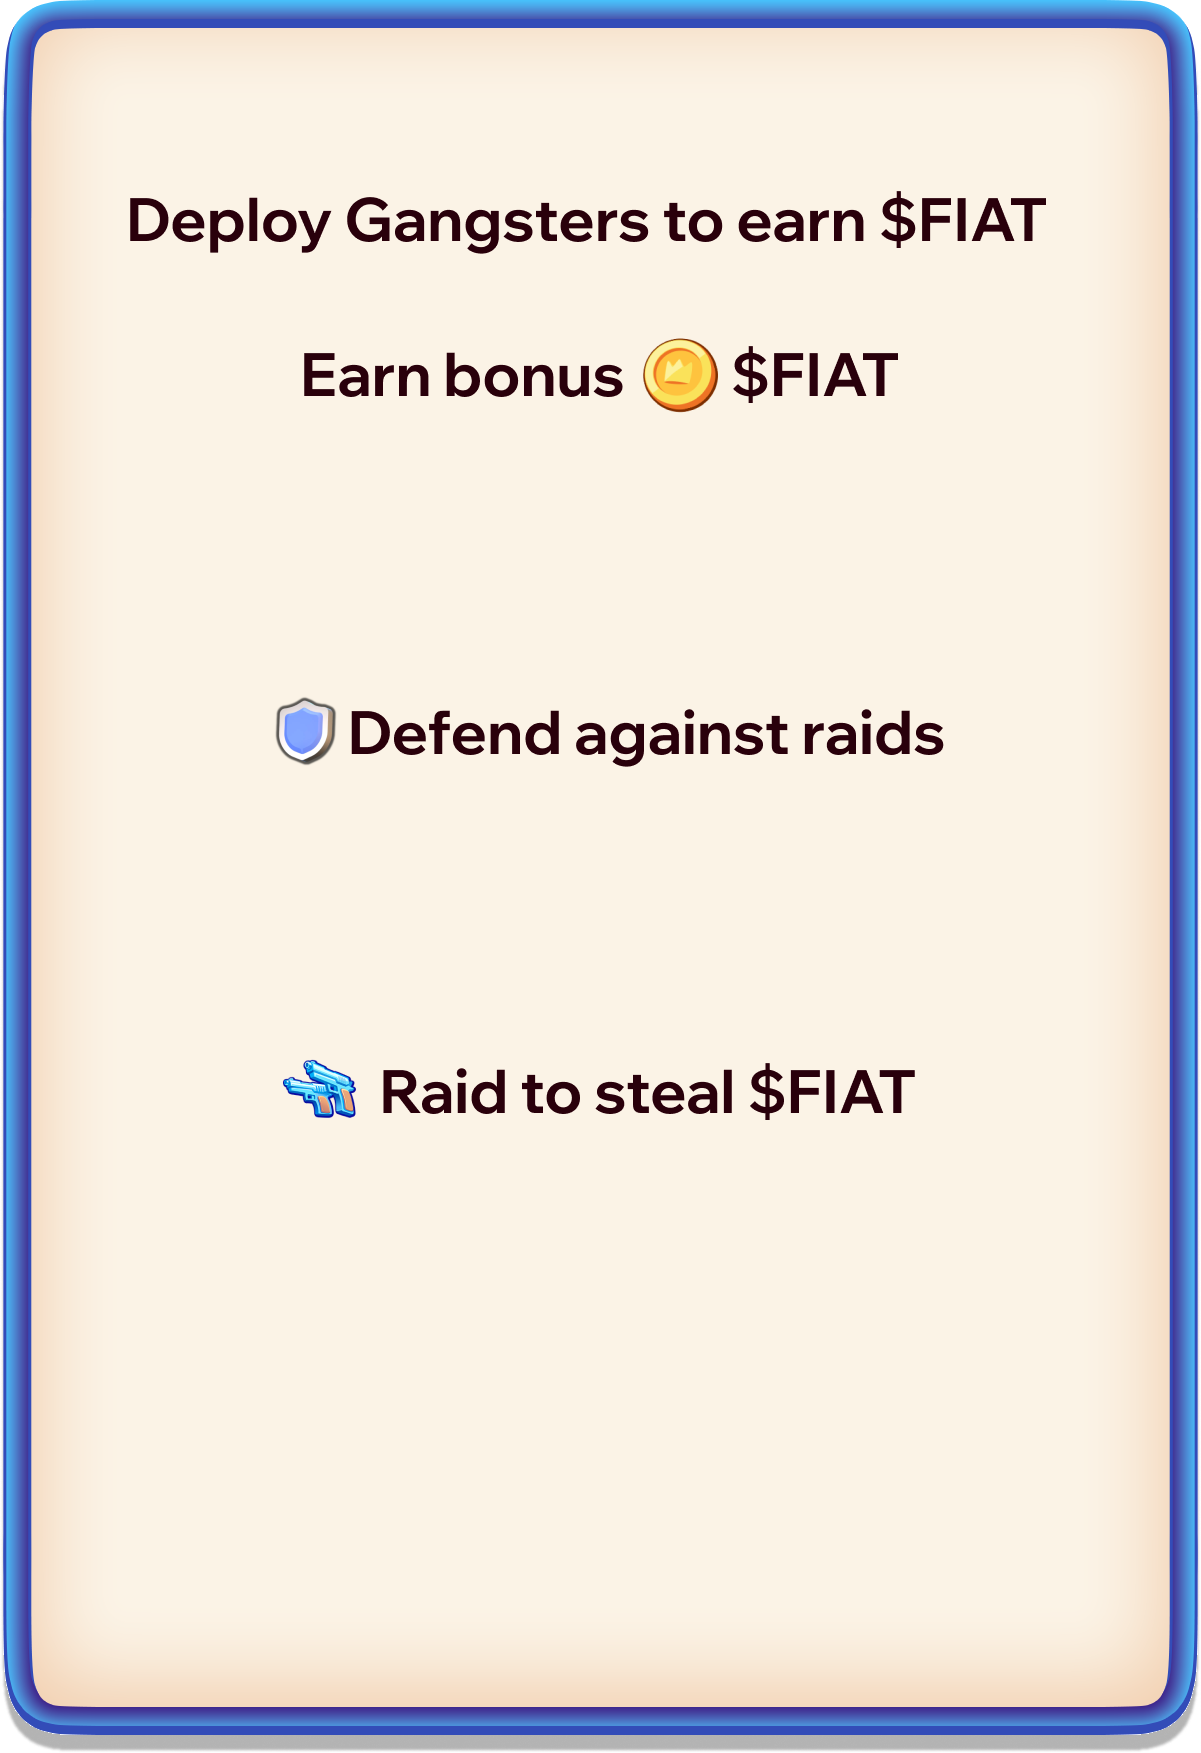
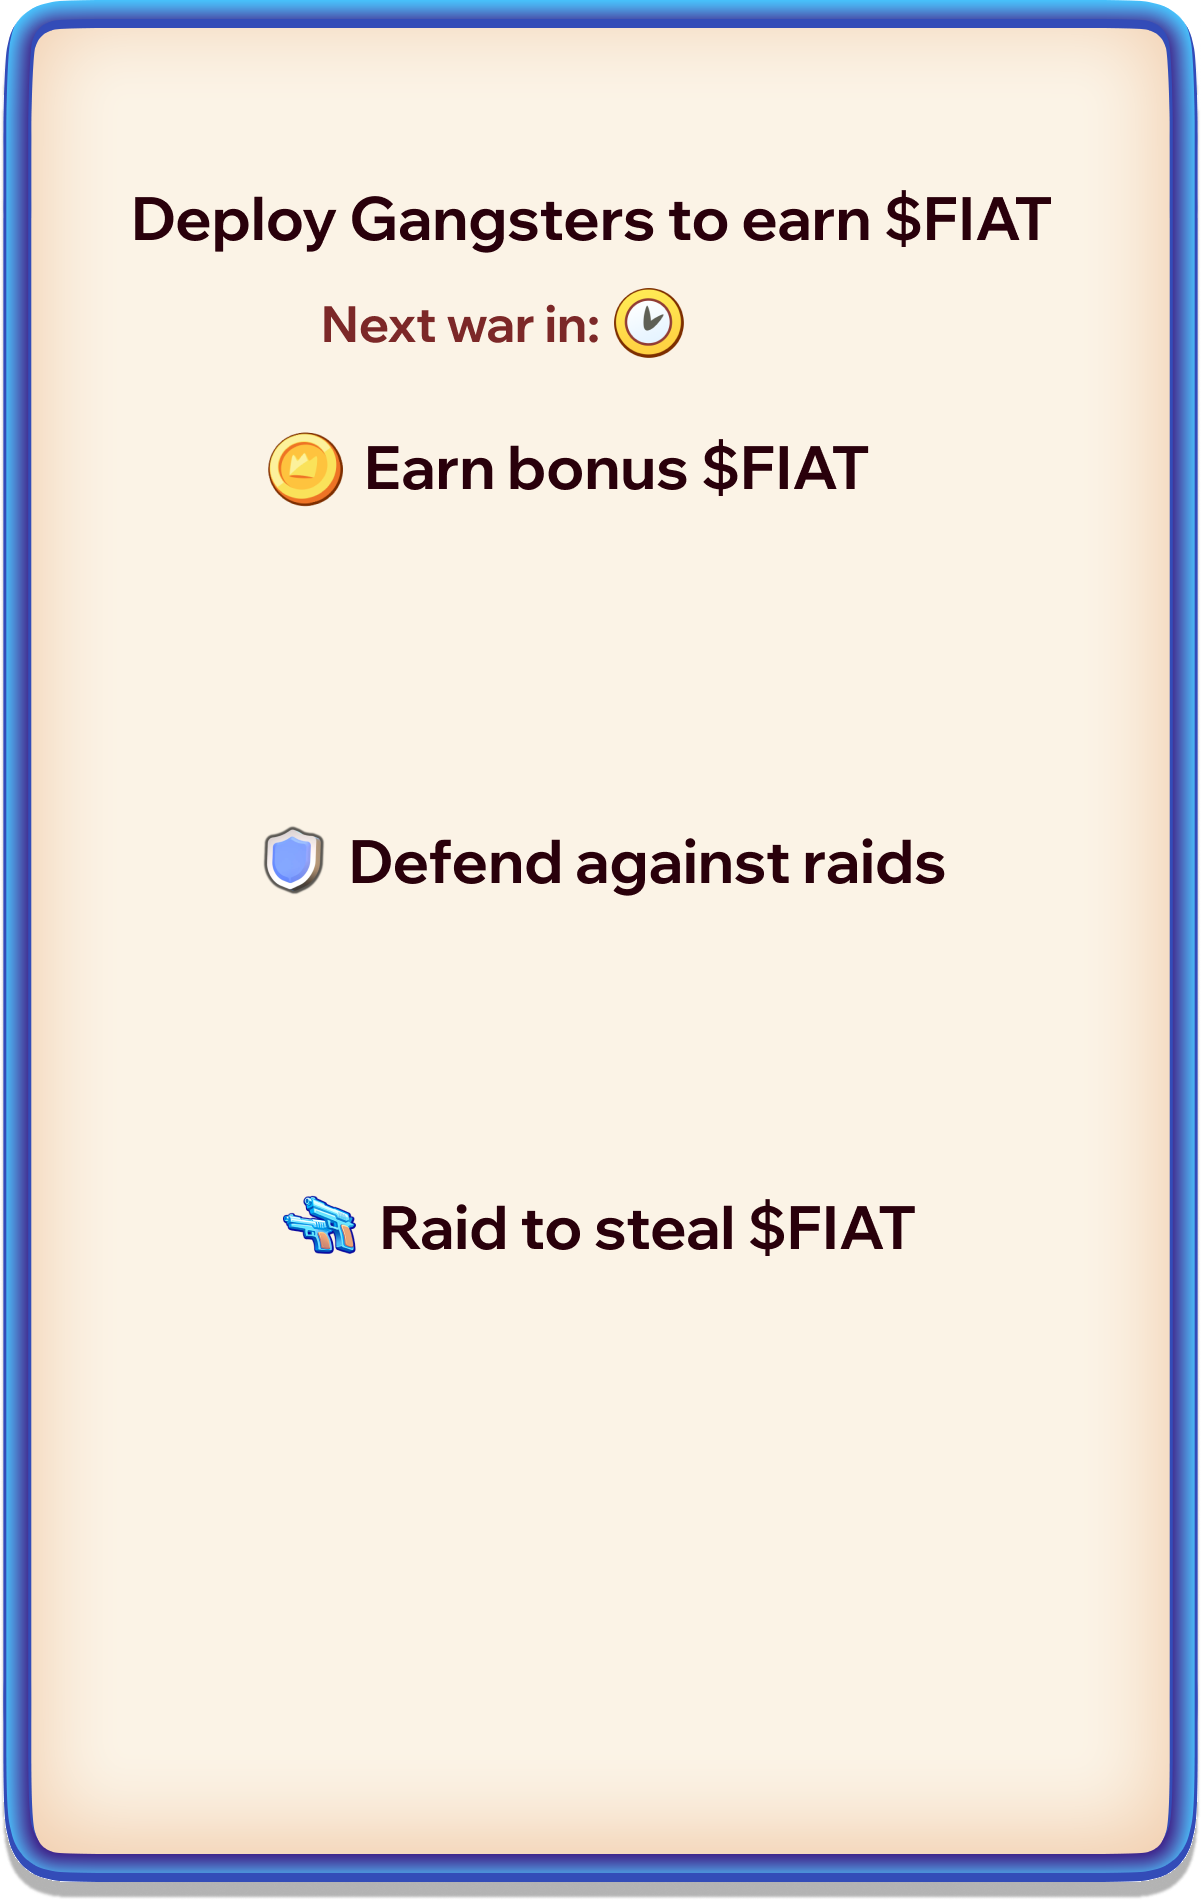
feat: update UI gangwar deployment

diff --git a/app/src/pages/Game/components/popup/PopupWarMachines.js b/app/src/pages/Game/components/popup/PopupWarMachines.js
@@ -32,6 +32,8 @@ class PopupWarMachines extends Popup {
     this.onClickClose = onClickClose;
 
     const events = {
+      requestNextWarTime: isSimulator ? 'simulator-request-next-war-time' : 'request-next-war-time',
+      updateNextWarTime: isSimulator ? 'simulator-update-next-war-time' : 'update-next-war-time',
       requestGamePlay: isSimulator ? 'simulator-request-game-play' : 'request-game-play',
       updateWarMachinesCompleted: isSimulator
         ? 'simulator-update-war-machines-completed'
@@ -39,6 +41,7 @@ class PopupWarMachines extends Popup {
       updateWarMachinesError: isSimulator ? 'simulator-update-war-machines-error' : 'update-war-machines-error',
       updateGamePlay: isSimulator ? 'simulator-update-game-play' : 'update-game-play',
     };
+    this.events = events;
 
     this.backBtn = new TextButton(
       scene,
@@ -86,13 +89,20 @@ class PopupWarMachines extends Popup {
     });
     this.add(this.infoBtn);
 
-    const inputY = this.popup.y - this.popup.height / 2 + 490;
+    this.timeText = scene.add.text(width / 2 + 100, this.popup.y - this.popup.height / 2 + 298, '0h 00m', {
+      fontSize: '50px',
+      color: '#29000B',
+      fontFamily: fontFamilies.extraBold,
+    });
+    this.add(this.timeText);
+
+    const inputY = this.popup.y - this.popup.height / 2 + 630;
     const inputGap = 370;
 
-    this.machinesToEarnInput = scene.add.image(width / 2, inputY, 'text-input-small').setOrigin(0.5, 0.5);
+    this.machinesToEarnInput = scene.add.image(width / 2, inputY - 20, 'text-input-small').setOrigin(0.5, 0.5);
     this.add(this.machinesToEarnInput);
     this.machinesToEarnUnitsText = scene.add
-      .text(width / 2, inputY, `${this.earnUnits}`, {
+      .text(width / 2, inputY - 20, `${this.earnUnits}`, {
         color: '#29000B',
         fontSize: '78px',
         fontFamily: fontFamilies.bold,
@@ -106,7 +116,7 @@ class PopupWarMachines extends Popup {
     this.machinesToEarnMinusBtn = new TextButton(
       scene,
       minusBtnX,
-      inputY,
+      inputY - 20,
       'button-square',
       'button-square-pressed',
       () => {
@@ -142,7 +152,7 @@ class PopupWarMachines extends Popup {
     this.machinesToEarnPlusBtn = new TextButton(
       scene,
       minusBtnX + 740,
-      inputY,
+      inputY - 20,
       'button-square',
       'button-square-pressed',
       () => {
@@ -178,7 +188,7 @@ class PopupWarMachines extends Popup {
     this.add(this.machinesToEarnPlusBtn);
 
     this.workerBonusTokenText = scene.add
-      .text(width / 2, inputY + 115, `Goon Bonus: ${formatter.format(this.workerBonusToken)} $FIAT`, {
+      .text(width / 2, inputY + 95, `Goon Bonus: ${formatter.format(this.workerBonusToken)} $FIAT`, {
         fontSize: '50px',
         color: '#7C2828',
         fontFamily: fontFamilies.bold,
@@ -368,19 +378,24 @@ class PopupWarMachines extends Popup {
     this.add(this.machinesToAttackPlusBtn);
 
     this.numberOfMachinesText = scene.add
-      .text(width / 2, inputY + 2 * inputGap + 200, `Available Gangsters: ${this.numberOfMachines}`, {
-        fontSize: '50px',
-        color: '#7C2828',
-        fontFamily: fontFamilies.bold,
-      })
+      .text(
+        width / 2,
+        inputY + 2 * inputGap + 200,
+        `Unallocated Gangsters: ${this.numberOfMachines - this.earnUnits - this.attackUnits - this.defendUnits}`,
+        {
+          fontSize: '50px',
+          color: '#7C2828',
+          fontFamily: fontFamilies.bold,
+        }
+      )
       .setOrigin(0.5, 0.5);
     this.add(this.numberOfMachinesText);
 
     this.attackUserText = scene.add
       .text(
         width / 2,
-        this.numberOfMachinesText.y + 150,
-        `Raid user: ${this.attackUser ? `@${this.attackUser.username}` : 'null'}`,
+        this.numberOfMachinesText.y + 130,
+        `Raid Player: ${this.attackUser ? `@${this.attackUser.username}` : 'null'}`,
         {
           fontSize: '50px',
           color: '#7C2828',
@@ -389,6 +404,16 @@ class PopupWarMachines extends Popup {
       )
       .setOrigin(0.5, 0.5);
     this.add(this.attackUserText);
+
+    scene.game.events.on(events.updateNextWarTime, ({ time }) => {
+      const now = Date.now();
+      const diffInMins = (time - now) / (60 * 1000);
+      const hours = Math.floor(diffInMins / 60);
+      const mins = Math.floor(diffInMins % 60);
+
+      const timeText = `${hours}h ${mins.toString().padStart(2, '0')}m`;
+      this.timeText.text = timeText;
+    });
 
     scene.game.events.on(
       events.updateGamePlay,
@@ -433,6 +458,11 @@ class PopupWarMachines extends Popup {
     });
 
     scene.game.events.emit(events.requestGamePlay);
+    scene.game.events.emit(events.requestNextWarTime);
+  }
+
+  onOpen() {
+    this.scene.game.events.emit(this.events.requestNextWarTime);
   }
 
   cleanup() {
@@ -446,8 +476,10 @@ class PopupWarMachines extends Popup {
     this.machinesToEarnUnitsText.text = `${this.earnUnits}`;
     this.machinesToAttackUnitsText.text = `${this.attackUnits}`;
     this.machinesToDefendUnitsText.text = `${this.defendUnits}`;
-    this.numberOfMachinesText.text = `Available Gangsters: ${this.numberOfMachines}`;
-    this.attackUserText.text = `Raid user: ${this.attackUser ? `@${this.attackUser.username}` : 'null'}`;
+    this.numberOfMachinesText.text = `Unallocated Gangsters: ${
+      this.numberOfMachines - this.earnUnits - this.attackUnits - this.defendUnits
+    }`;
+    this.attackUserText.text = `Raid Player: ${this.attackUser ? `@${this.attackUser.username}` : 'null'}`;
     this.workerBonusTokenText.text = `Goon Bonus: ${formatter.format(this.workerBonusToken)} $FIAT`;
     this.buildingBonusText.text = `Safehouse Bonus: ${formatter.format(this.buildingBonus)}`;
 
